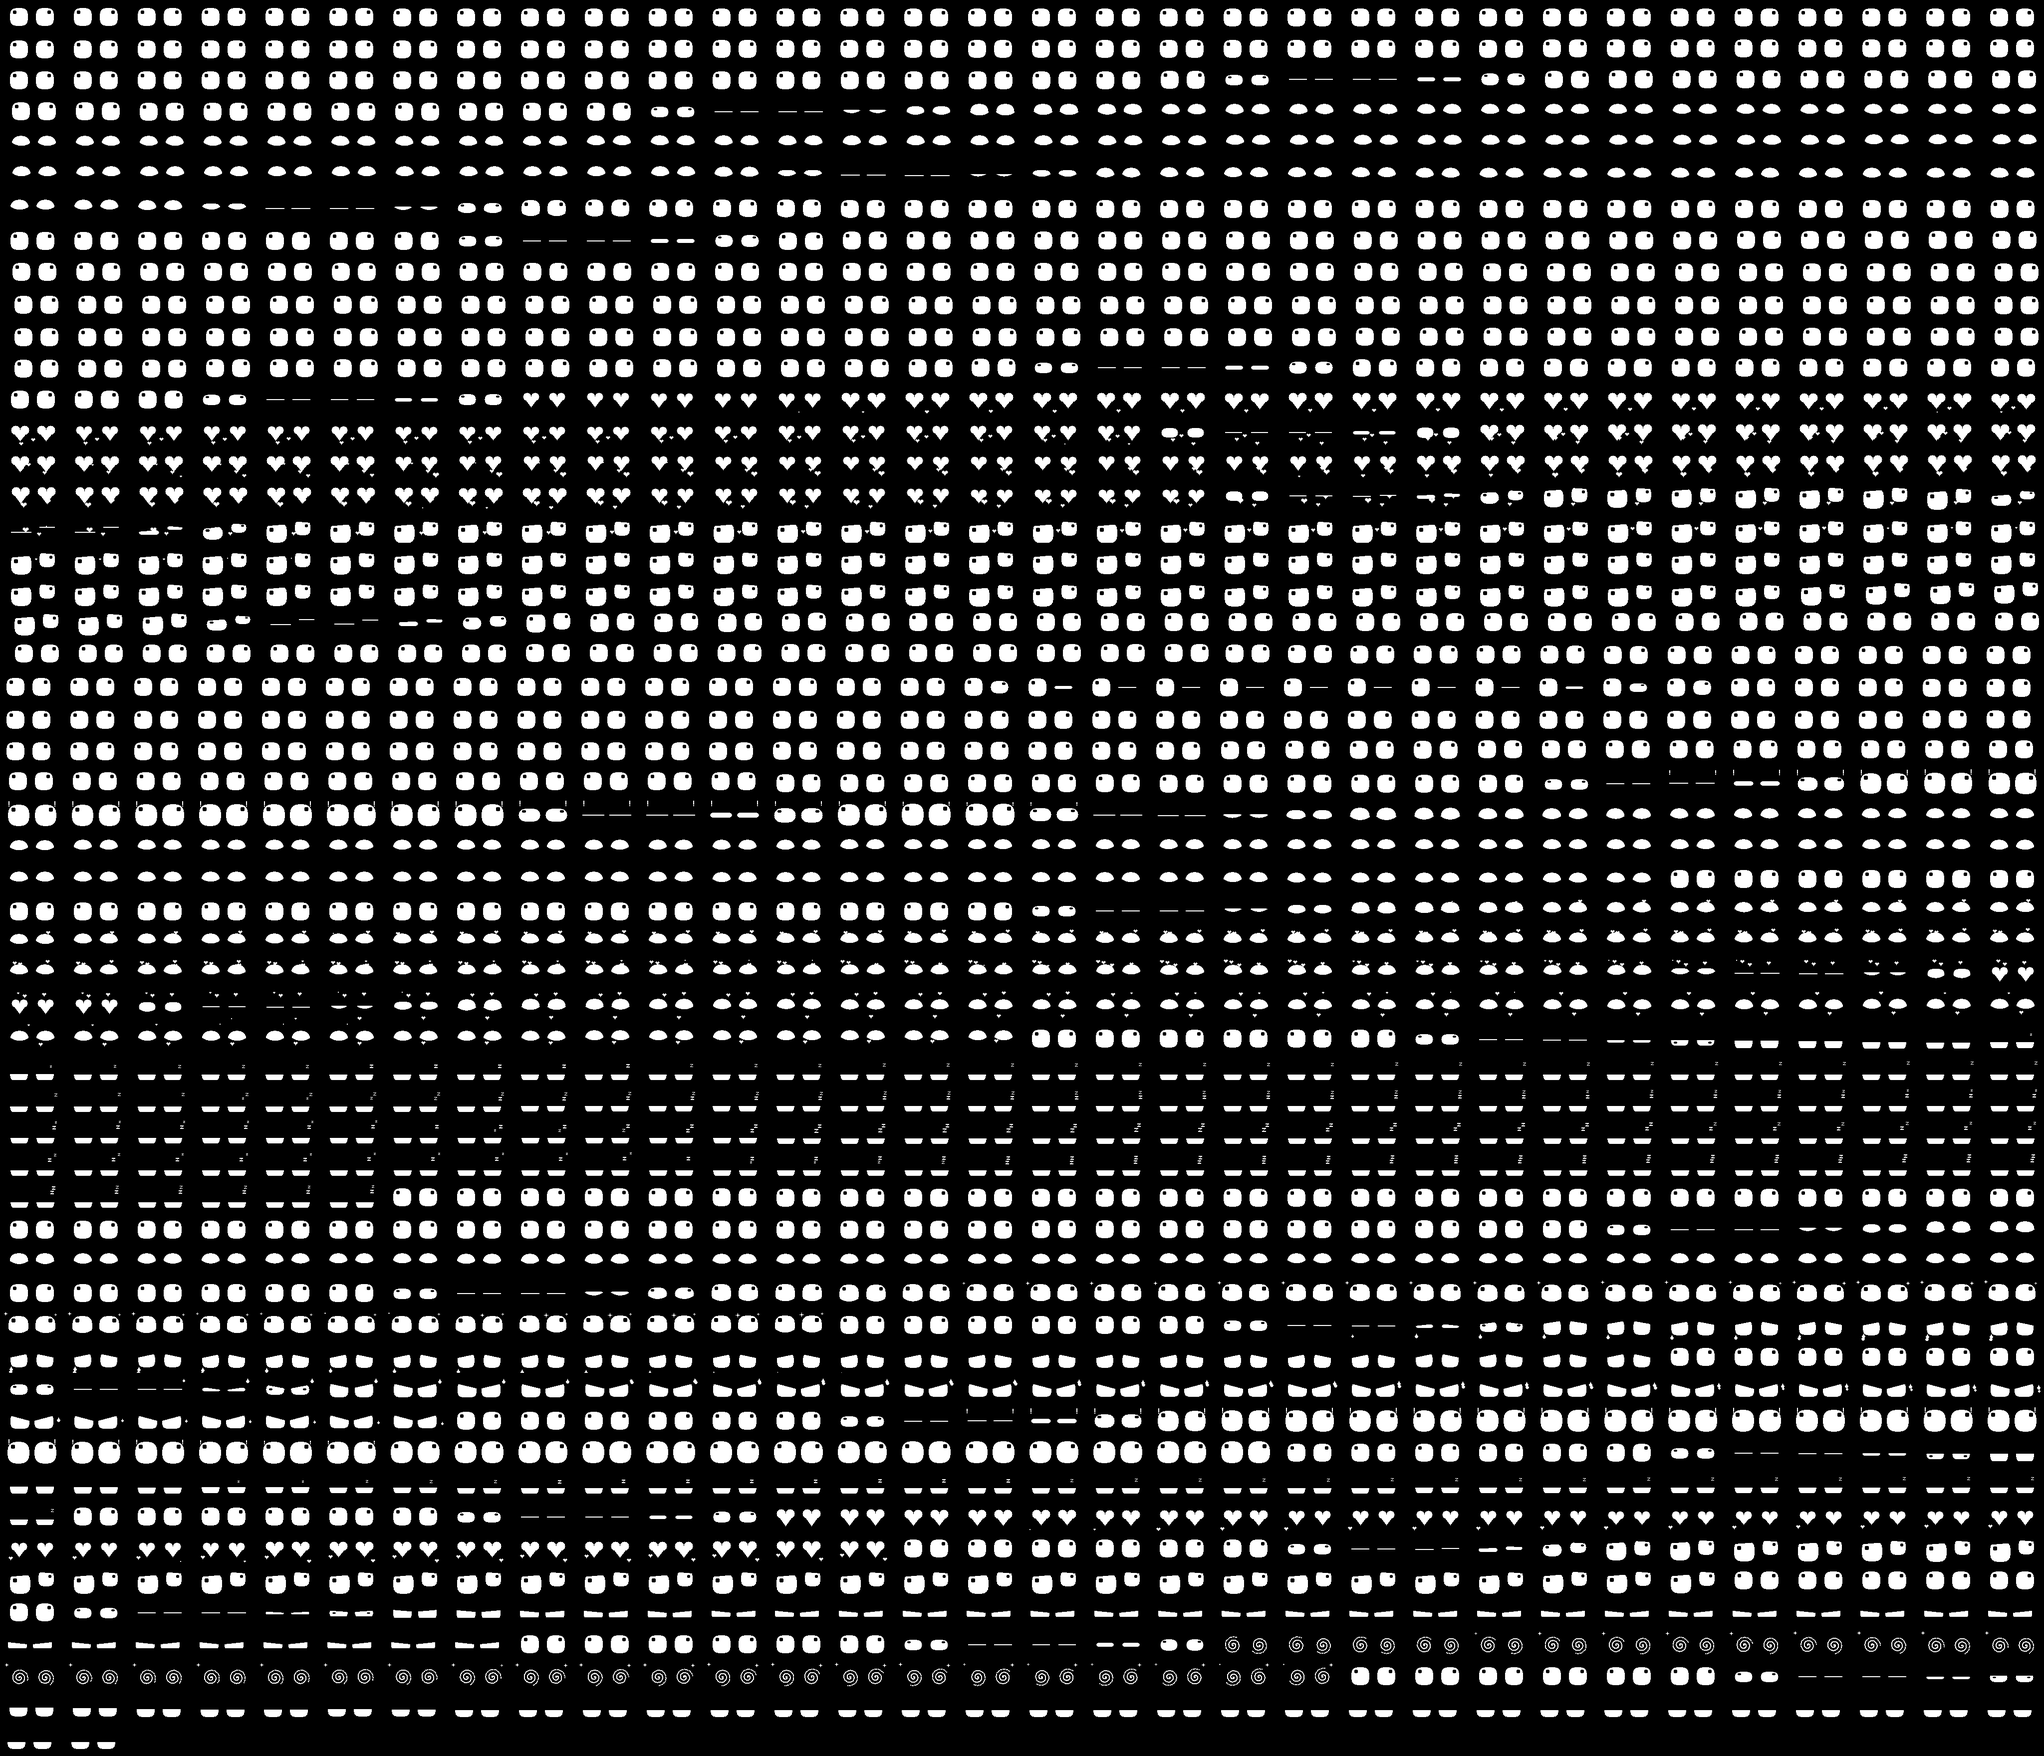
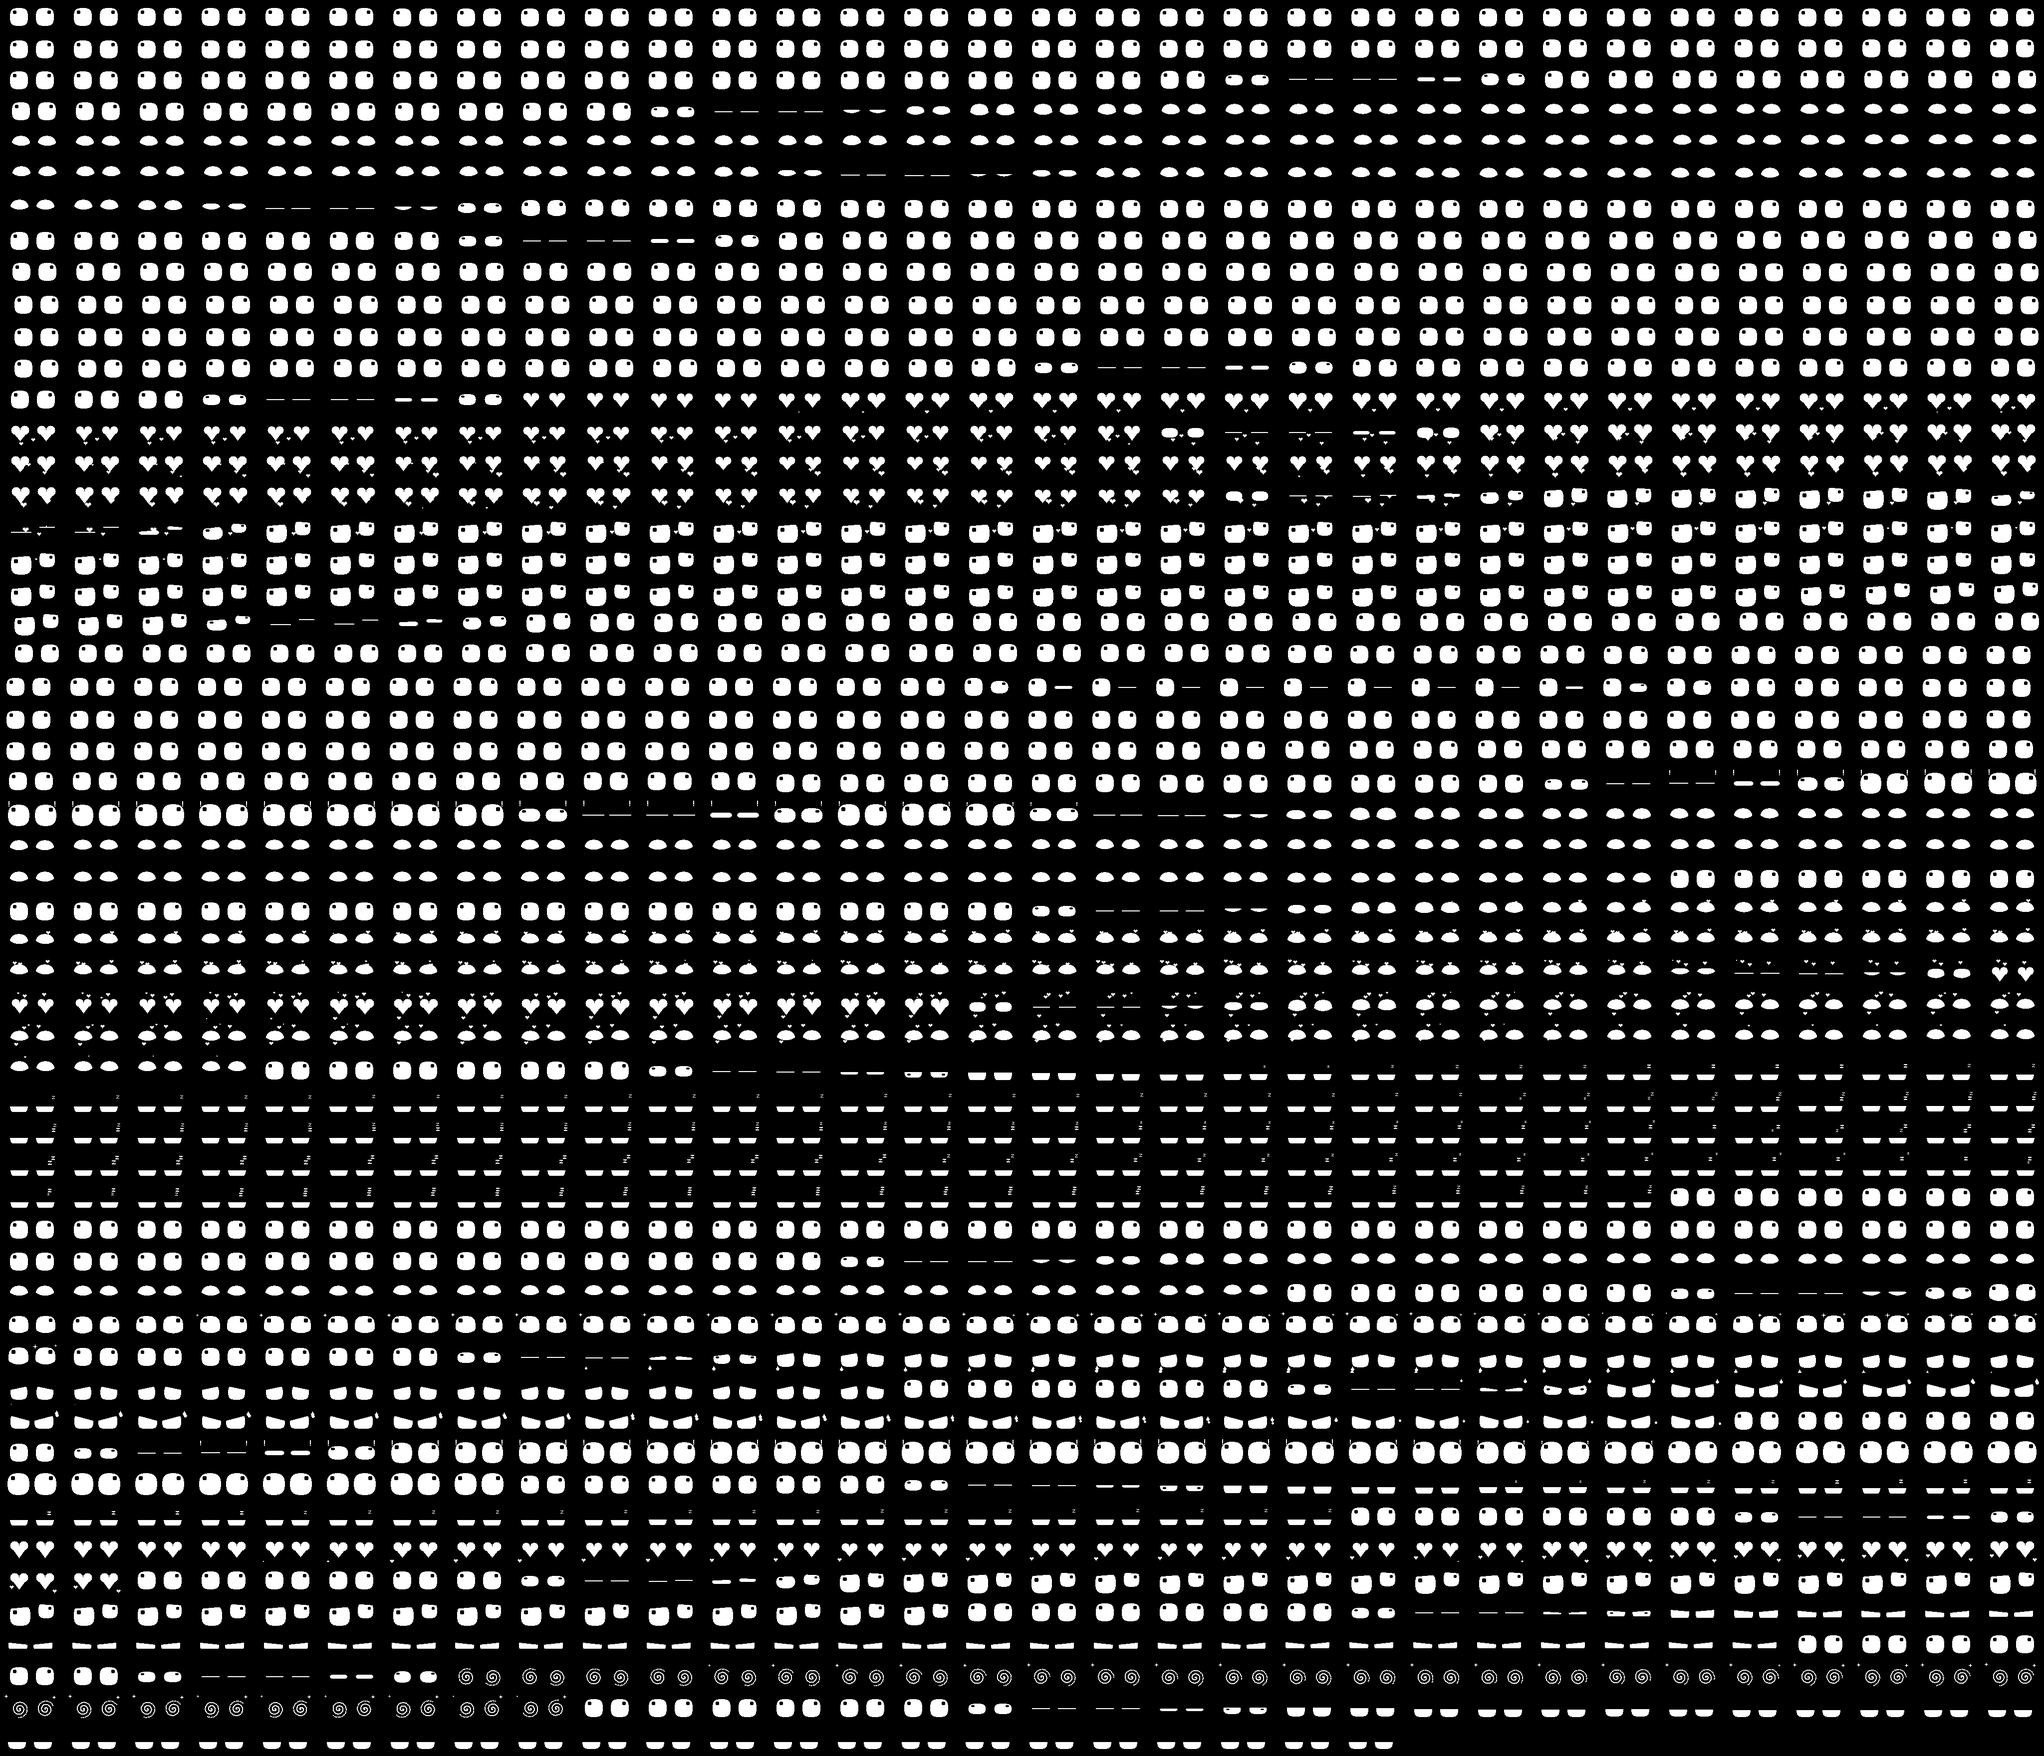
Harden firmware after security review; run I2C at the configured clock
Three confirmed defects, all fixed:
- A serial `tap`/`pet` deadline compared against millis() as a signed
  difference flips after 24.9 days of uptime, faking a permanent finger
  on the touch pad: the buddy would lock into petting/love, stop changing
  mood and never doze. The pretend touch now has an explicit live flag.
- `look nan 0` over serial put NaN into the gaze, which no clamp or
  smoothing step ever removes, leaving the eyes off-screen until reboot.
  Face::look now rejects NaN.
- The host preview's `anim <seconds>` cast an unclamped float to int
  (UB for huge or NaN input); it is now bounded.

Also acted on the review's recommendations:
- Adafruit_SSD1306 re-applies its own bus clock around every transaction,
  so the Wire.setClock(800000) in setup() was being overridden back to
  400 kHz. The clock now goes into the constructor, so frames actually
  push in ~13 ms as documented.
- Unknown-command echo is filtered to printable ASCII so bytes on the
  port can't paint escape sequences into the attached terminal.
- pollSerial takes at most 64 bytes per frame; a flooding host can no
  longer stall the render loop.
- The panel is re-probed every 2 s; an unplugged OLED now drops back
  into the retry path instead of being fed frames forever.
- Effects::spawn rejects a non-positive life (would divide to NaN).
- Burn-in drift phases wrap at 2*pi and idle time caps, so neither loses
  float precision on a months-long uptime.
[…]

diff --git a/preview/web/index.html b/preview/web/index.html
@@ -398,20 +398,20 @@
     clips: [
       { id: "auto", label: "Left alone", start: 0, count: 780, group: "b" },
       { id: "poke", label: "Poked", start: 780, count: 110, group: "b" },
-      { id: "pet", label: "Petted", start: 890, count: 150, group: "b" },
-      { id: "doze", label: "Falling asleep", start: 1040, count: 150, group: "b" },
-      { id: "neutral", label: "Neutral", start: 1190, count: 45, group: "e" },
-      { id: "happy", label: "Happy", start: 1235, count: 45, group: "e" },
-      { id: "excited", label: "Excited", start: 1280, count: 45, group: "e" },
-      { id: "sad", label: "Sad", start: 1325, count: 45, group: "e" },
-      { id: "angry", label: "Angry", start: 1370, count: 45, group: "e" },
-      { id: "surprised", label: "Surprised", start: 1415, count: 45, group: "e" },
-      { id: "sleepy", label: "Sleepy", start: 1460, count: 45, group: "e" },
-      { id: "love", label: "Love", start: 1505, count: 45, group: "e" },
-      { id: "curious", label: "Curious", start: 1550, count: 45, group: "e" },
-      { id: "suspicious", label: "Suspicious", start: 1595, count: 45, group: "e" },
-      { id: "dizzy", label: "Dizzy", start: 1640, count: 45, group: "e" },
-      { id: "bored", label: "Bored", start: 1685, count: 45, group: "e" }
+      { id: "pet", label: "Petted", start: 890, count: 170, group: "b" },
+      { id: "doze", label: "Falling asleep", start: 1060, count: 150, group: "b" },
+      { id: "neutral", label: "Neutral", start: 1210, count: 45, group: "e" },
+      { id: "happy", label: "Happy", start: 1255, count: 45, group: "e" },
+      { id: "excited", label: "Excited", start: 1300, count: 45, group: "e" },
+      { id: "sad", label: "Sad", start: 1345, count: 45, group: "e" },
+      { id: "angry", label: "Angry", start: 1390, count: 45, group: "e" },
+      { id: "surprised", label: "Surprised", start: 1435, count: 45, group: "e" },
+      { id: "sleepy", label: "Sleepy", start: 1480, count: 45, group: "e" },
+      { id: "love", label: "Love", start: 1525, count: 45, group: "e" },
+      { id: "curious", label: "Curious", start: 1570, count: 45, group: "e" },
+      { id: "suspicious", label: "Suspicious", start: 1615, count: 45, group: "e" },
+      { id: "dizzy", label: "Dizzy", start: 1660, count: 45, group: "e" },
+      { id: "bored", label: "Bored", start: 1705, count: 45, group: "e" }
     ]
   };
 

diff --git a/src/main.cpp b/src/main.cpp
@@ -14,14 +14,21 @@
 #include "Personality.h"
 #include "config.h"
 
-static Adafruit_SSD1306 display(DB_SCREEN_W, DB_SCREEN_H, &Wire, -1);
+// The library re-applies its own bus clock around every transaction, so the
+// speed has to go in here - a Wire.setClock() in setup() would be overridden.
+static Adafruit_SSD1306 display(DB_SCREEN_W, DB_SCREEN_H, &Wire, -1,
+                                DB_I2C_CLOCK, DB_I2C_CLOCK);
 static db::Face face;
 static db::Personality brain;
 static Button button(DB_PIN_BUTTON, DB_BUTTON_ACTIVE_LOW);
 static Button touch(DB_PIN_TOUCH, !DB_TOUCH_ACTIVE_HIGH);
 
 // `pet` / `tap` over serial pretend a finger is on the pad until this time.
+// The deadline is only ever compared while the pretend touch is live: an
+// unsigned millis() difference flips sign after 24.9 days of uptime, and a
+// bare `until > now` test would hallucinate a finger for the next 24.9 days.
 static uint32_t simTouchUntil = 0;
+static bool simTouching = false;
 
 static uint8_t oledAddress = 0x3C;
 static bool displayReady = false;
@@ -144,8 +151,10 @@ static void runCommand(char* line) {
     brain.onInteraction(db::TOUCH_POKE);
   } else if (!strcmp(line, "tap")) {
     simTouchUntil = millis() + 120;
+    simTouching = true;
   } else if (!strcmp(line, "pet")) {
     simTouchUntil = millis() + 3500;
+    simTouching = true;
   } else if (!strcmp(line, "sleep")) {
     brain.sleep();
   } else if (!strcmp(line, "wake")) {
@@ -160,13 +169,20 @@ static void runCommand(char* line) {
     Serial.print(F(" idle=")); Serial.print(brain.idleSeconds(), 1);
     Serial.print(F("s oled=0x")); Serial.println(oledAddress, HEX);
   } else {
-    Serial.print(F("? ")); Serial.print(line);
+    // Echo only printable ASCII: this goes straight back into whatever
+    // terminal is attached, and a stray escape sequence could redraw it.
+    Serial.print(F("? "));
+    for (const char* c = line; *c; ++c) {
+      if (*c >= 0x20 && *c < 0x7F) Serial.print(*c);
+    }
     Serial.println(F("  (try 'help')"));
   }
 }
 
 static void pollSerial() {
-  while (Serial.available()) {
+  // A host that floods the port must not be able to stall the frame loop.
+  uint8_t budget = 64;
+  while (Serial.available() && budget--) {
     const char c = (char)Serial.read();
     if (c == '\r') continue;
     if (c == '\n') {
@@ -234,6 +250,20 @@ void loop() {
     return;
   }
 
+  // Ask the panel if it is still there now and then, so an unplugged or
+  // glitched OLED goes back through the retry path instead of being fed
+  // frames forever.
+  static uint32_t lastProbe = 0;
+  if (millis() - lastProbe > 2000) {
+    lastProbe = millis();
+    Wire.beginTransmission(oledAddress);
+    if (Wire.endTransmission() != 0) {
+      displayReady = false;
+      Serial.println(F("lost the SSD1306 - will retry"));
+      return;
+    }
+  }
+
   static uint32_t prevUs = micros();
   const uint32_t nowUs = micros();
   float dt = (float)(uint32_t)(nowUs - prevUs) * 1e-6f;
@@ -249,7 +279,8 @@ void loop() {
   if (button.takeLong())   brain.onInteraction(db::TOUCH_HOLD);
 
   touch.update(millis());
-  brain.setTouch(touch.isDown() || (int32_t)(simTouchUntil - millis()) > 0, dt);
+  if (simTouching && (int32_t)(simTouchUntil - millis()) <= 0) simTouching = false;
+  brain.setTouch(touch.isDown() || simTouching, dt);
 
   brain.update(dt);
   face.update(dt);

diff --git a/tools/host/preview.cpp b/tools/host/preview.cpp
@@ -77,7 +77,10 @@ int main(int argc, char** argv) {
     frames = 45;
     fclose(out);
   } else if (strcmp(mode, "anim") == 0 && argc >= 4) {
-    const float seconds = (float)atof(argv[2]);
+    // argv is untrusted enough: a huge or NaN duration makes the cast to int
+    // below undefined, so pin it to something a preview could plausibly want.
+    const float wanted = (float)atof(argv[2]);
+    const float seconds = (wanted > 0.0f) ? ((wanted < 3600.0f) ? wanted : 3600.0f) : 0.0f;
     FILE* out = fopen(argv[3], "wb");
     if (!out) return 1;
     Face face;
@@ -112,7 +115,8 @@ int main(int argc, char** argv) {
     frames = n;
     fclose(out);
   } else if (strcmp(mode, "pet") == 0 && argc >= 4) {
-    // Finger lands on the pad at frame 12 and stays for three seconds.
+    // Finger lands on the pad at frame 12 and stays 3.5 s: long enough to
+    // pass the 2.8 s heart-eyes threshold and let the blink reveal them.
     const int n = atoi(argv[2]);
     FILE* out = fopen(argv[3], "wb");
     if (!out) return 1;
@@ -121,7 +125,7 @@ int main(int argc, char** argv) {
     face.begin(0x9E7u);
     brain.begin(face, 0x9E7u);
     for (int i = 0; i < n; ++i) {
-      brain.setTouch(i >= 12 && i < 12 + 90, kDt);
+      brain.setTouch(i >= 12 && i < 12 + 105, kDt);
       brain.update(kDt);
       face.update(kDt);
       face.draw(g);

diff --git a/src/Face.cpp b/src/Face.cpp
@@ -192,6 +192,10 @@ void Face::wink(bool leftEye) {
 }
 
 void Face::look(float x, float y, float holdSeconds) {
+  // `look nan 0` over serial parses fine and a NaN never leaves a clamp or the
+  // smoothed gaze again, so the face would be stuck off-screen until a reboot.
+  if (x != x) x = 0.0f;
+  if (y != y) y = 0.0f;
   gazeTX_ = clampf(x, -1.0f, 1.0f);
   gazeTY_ = clampf(y, -1.0f, 1.0f);
   gazeHold_ = holdSeconds;
@@ -249,7 +253,8 @@ void Face::spawnMoodEffects(float dt) {
 void Face::update(float dt) {
   if (dt > 0.1f) dt = 0.1f;  // a hiccup shouldn't fling the animation forward
   if (dt < 0.0f) dt = 0.0f;
-  t_ += dt;
+  driftA_ += dt * 0.0647f;  if (driftA_ > 6.2832f) driftA_ -= 6.2832f;
+  driftB_ += dt * 0.0413f;  if (driftB_ > 6.2832f) driftB_ -= 6.2832f;
 
   breathe_ += dt * 1.9f;  if (breathe_ > 6.2832f) breathe_ -= 6.2832f;
   beat_    += dt * 5.2f;  if (beat_    > 6.2832f) beat_    -= 6.2832f;
@@ -439,8 +444,8 @@ void Face::draw(Canvas& g) {
   // the panel. Two incommensurate periods => it never repeats exactly.
   float dx = 0.0f, dy = 0.0f;
   if (drift_) {
-    dx = sinf(t_ * 0.0647f) * 3.0f;
-    dy = cosf(t_ * 0.0413f) * 2.0f;
+    dx = sinf(driftA_) * 3.0f;
+    dy = cosf(driftB_) * 2.0f;
   }
 
   float shakeX = 0.0f, shakeY = 0.0f;

diff --git a/tools/host/frames_to_png.py b/tools/host/frames_to_png.py
@@ -88,10 +88,12 @@ def main():
     cols, scale, labels = 4, 3, []
     args = sys.argv[3:]
     for i, a in enumerate(args):
+        if i + 1 >= len(args):
+            break
         if a == "--cols":
-            cols = int(args[i + 1])
+            cols = max(1, int(args[i + 1]))
         elif a == "--scale":
-            scale = int(args[i + 1])
+            scale = max(1, int(args[i + 1]))
         elif a == "--labels":
             labels = args[i + 1].split(",")
 

diff --git a/tools/host/make_gif.py b/tools/host/make_gif.py
@@ -40,7 +40,7 @@ GREY = (58, 58, 58)
 CLIPS = [
     (["anim", "8"], 30, 120),      # left alone: gazes around, blinks, changes mood
     (["poke", "110"], 0, 84),      # poked at frame 12: startle, then cheer up
-    (["pet", "150"], 0, 126),      # petted: squints up, hearts, then let go
+    (["pet", "170"], 0, 160),      # petted: squints up, hearts, heart-eyes, let go
     (["arc", "angry"], 0, 45),
     (["arc", "sad"], 0, 45),
     (["arc", "dizzy"], 0, 45),

diff --git a/src/Face.h b/src/Face.h
@@ -125,7 +125,8 @@ class Face {
   float spin_ = 0.0f;      // spiral phase
   float beat_ = 0.0f;      // heart beat phase
   float breathe_ = 0.0f;   // idle bob phase
-  float t_ = 0.0f;         // seconds since boot
+  float driftA_ = 0.0f;    // burn-in wander phases (wrapped, so they never
+  float driftB_ = 0.0f;    // lose precision on a long uptime)
   float fxTimer_ = 0.0f;
   bool drift_ = true;
 

diff --git a/tools/host/make_web_preview.py b/tools/host/make_web_preview.py
@@ -52,7 +52,7 @@ def main():
 
     add("auto", "Left alone", run(["anim", "26"], tmp))
     add("poke", "Poked", run(["poke", "110"], tmp))
-    add("pet", "Petted", run(["pet", "150"], tmp))
+    add("pet", "Petted", run(["pet", "170"], tmp))
     add("doze", "Falling asleep", run(["doze", "150"], tmp))
     for e in EMOTIONS:
         add(e, e.capitalize(), run(["arc", e], tmp))

diff --git a/src/Personality.cpp b/src/Personality.cpp
@@ -76,7 +76,7 @@ void Personality::wake(bool startled) {
 
 void Personality::update(float dt) {
   if (!face_) return;
-  idle_ += dt;
+  if (idle_ < 1.0e6f) idle_ += dt;  // only ever compared against thresholds
 
   // Attention fades slowly.
   energy_ = approach(energy_, idle_ > DB_IDLE_BORED_S ? 0.25f : 0.55f, 30.0f, dt);

diff --git a/src/Effects.cpp b/src/Effects.cpp
@@ -12,6 +12,7 @@ void Effects::clear() {
 
 void Effects::spawn(FxType type, float x, float y, float vx, float vy,
                     float life, float size) {
+  if (!(life > 0.0f)) return;  // age/life is divided later; also rejects NaN
   int slot = -1;
   float oldest = -1.0f;
   for (int i = 0; i < MAX_PARTICLES; ++i) {

diff --git a/README.md b/README.md
@@ -130,7 +130,7 @@ on the board also runs on your machine:
 
 ```sh
 make preview        # preview/emotions.png and preview/timeline.png
-make gif            # preview/deskbuddy.gif, the animation at the top
+make gif            # preview/deskbuddy.gif, the animation at the top (needs: pip3 install pillow)
 ```
 
 `preview/preview arc angry out.bin` renders a single transition frame by
